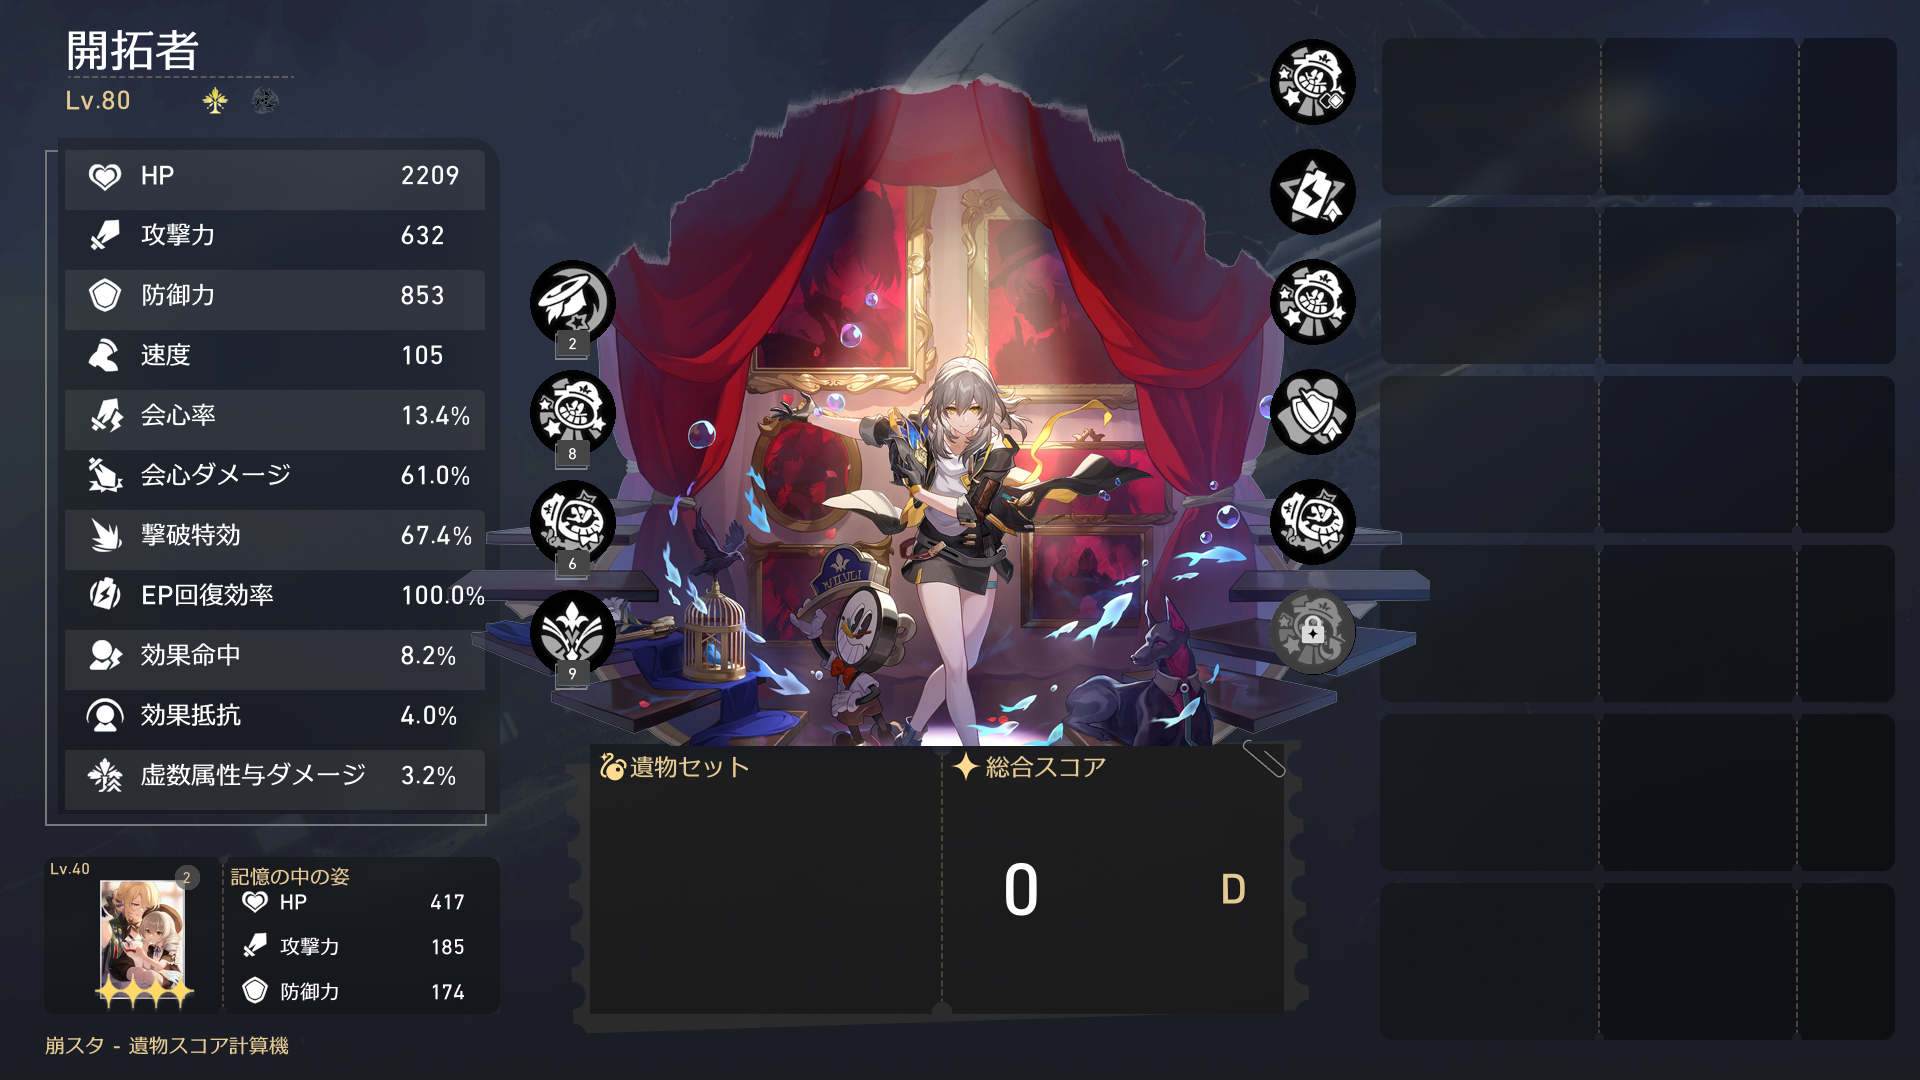
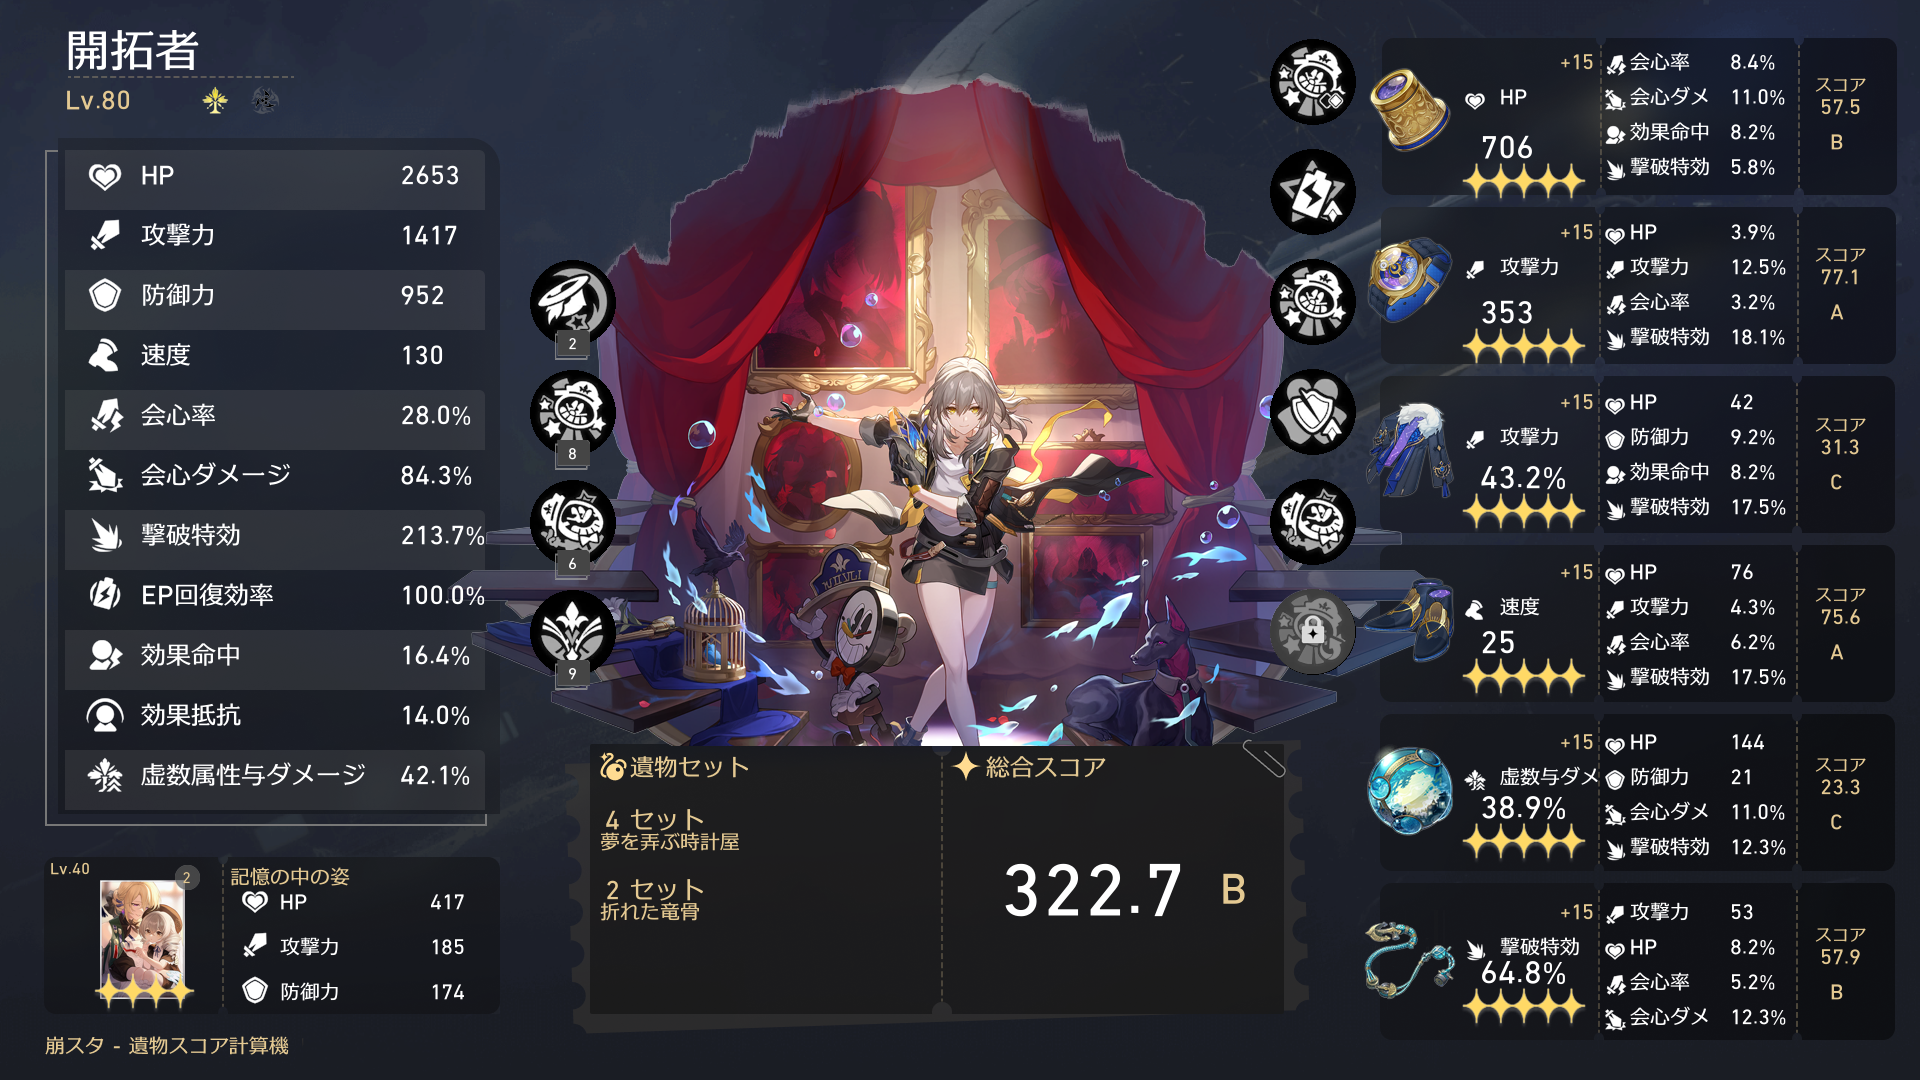
自動更新機能追加

diff --git a/HSRImageGen/score.py b/HSRImageGen/score.py
@@ -15,7 +15,7 @@ def calculationScore(charaID: int, relicInfo: relic):
                       relicInfo.mainStatus.type, relicInfo.mainStatus.value)
     # サブステータスのスコア計算
     for sub in relicInfo.subAffix:
-        score += addScore(charaID, "sub", relicInfo.level,
+        score += addScore(charaID, "weight", relicInfo.level,
                           relicInfo.type, sub.type, sub.value)
 
     return score
@@ -34,7 +34,7 @@ def addScore(charaID: int, MainOrSub: str, level: int, place: str, type: str, va
     if MainOrSub == "main":
         weight = HSR_weight[str(charaID)][MainOrSub][place][type]
         return (level + 1) / 16 * weight * 50
-    elif MainOrSub == "sub":
+    elif MainOrSub == "weight":
         if type == "CriticalChance" or type == "CriticalDamage" or type == "StatusProbability" or type == "StatusResistance" or type == "BreakDamageAddedRatio":
             type += "Base"
         weight = HSR_weight[str(charaID)][MainOrSub][type]

diff --git a/HSRImageGen/format.py b/HSRImageGen/format.py
@@ -168,7 +168,7 @@ def formatCharaData(allCharaData):
                 relicInfo.level = relicData["level"]
             except:
                 pass
-            relicInfo.type = HSR_relics[str(relicData["tid"])]["Type"]
+            relicInfo.type = str(relicData["type"])
             relicInfo.mainStatus.type = relicData["_flat"]["props"][0]["type"]
             relicInfo.mainStatus.value = relicData["_flat"]["props"][0]["value"]
 
